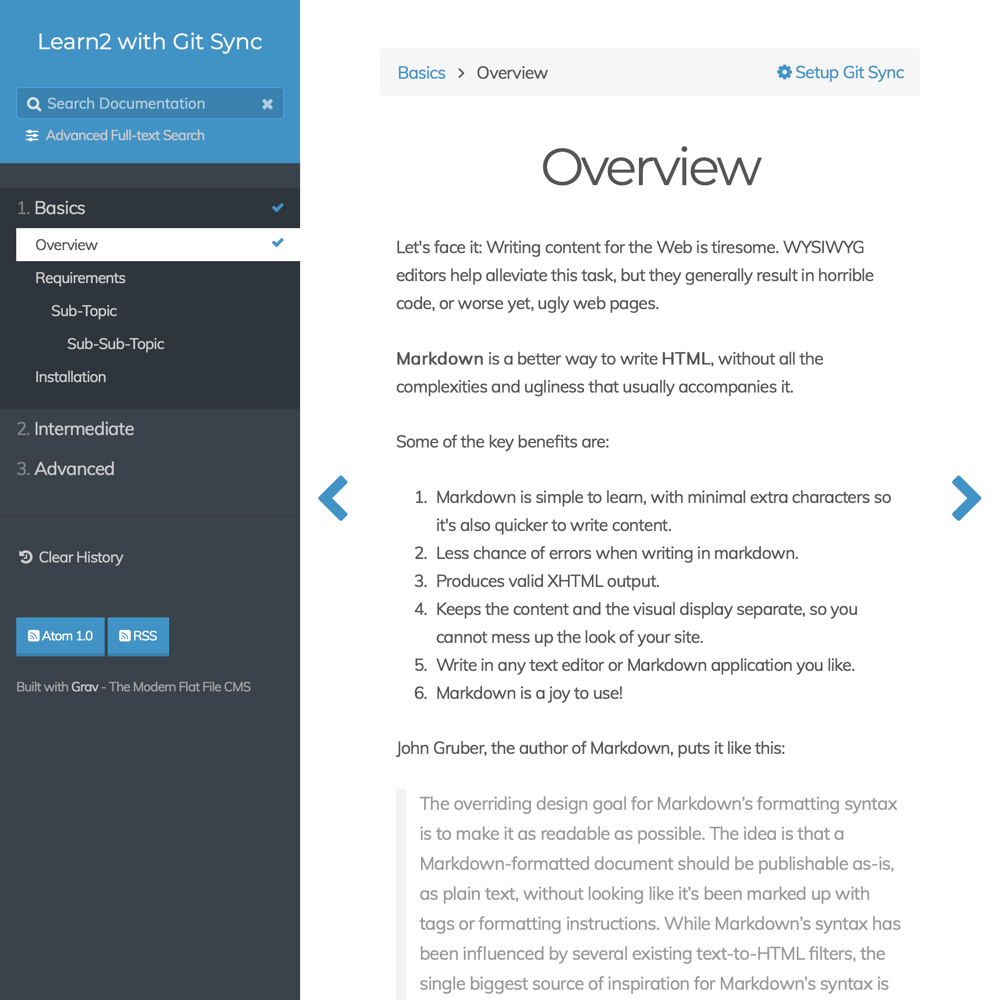
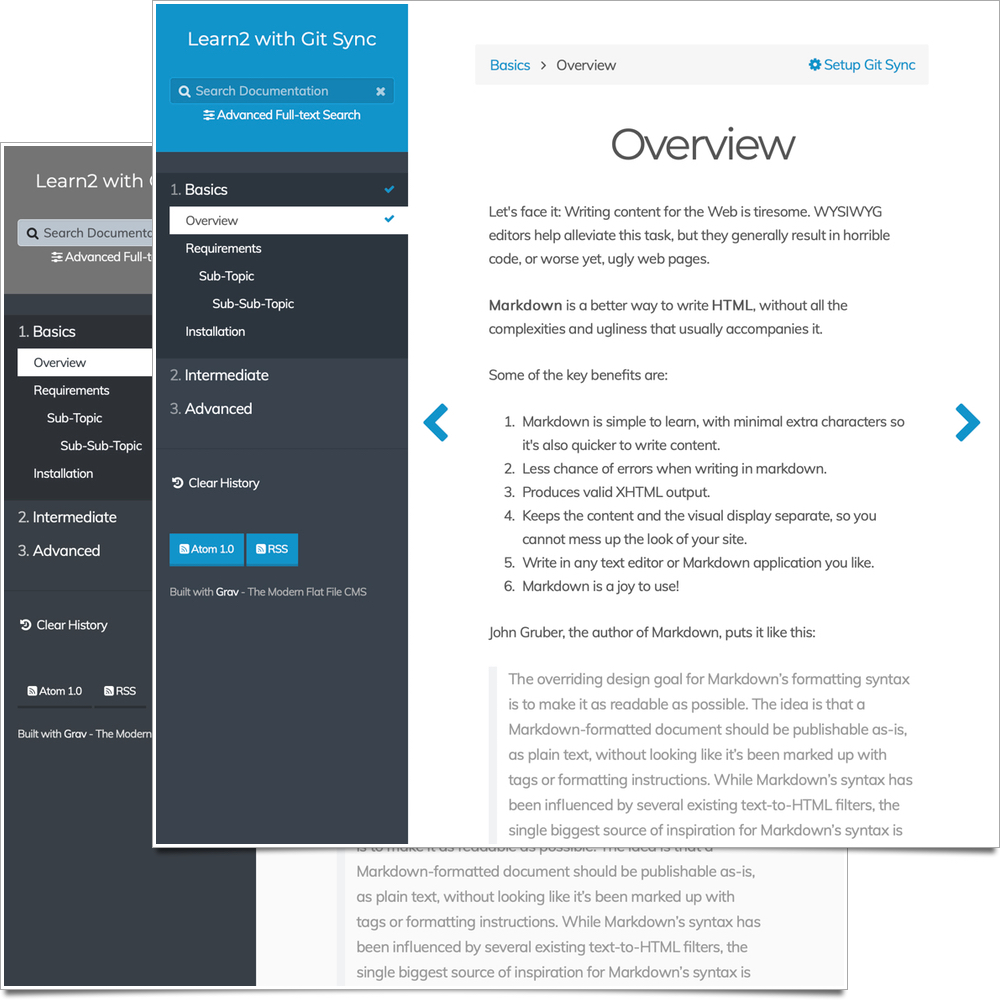
Updated ReadMe, theme description and screenshots.

diff --git a/README.md b/README.md
@@ -1,6 +1,6 @@
 # Learn2 with Git Sync
 
-Learn2 with Git Sync is a customized version of the default [Grav Learn](http://learn.getgrav.org) theme. Simple, fast and modern.
+Learn2 with Git Sync is a customized version of the default [Grav Learn](http://learn.getgrav.org) theme. Includes selectable visual styles.
 
 Want to quickly try out this theme? The [Learn2 with Git Sync Skeleton](https://getgrav.org/downloads/skeletons) is a ready-to-run site with the Learn2 with Git Sync Theme, which also includes the Admin Panel and example content already installed.
 
